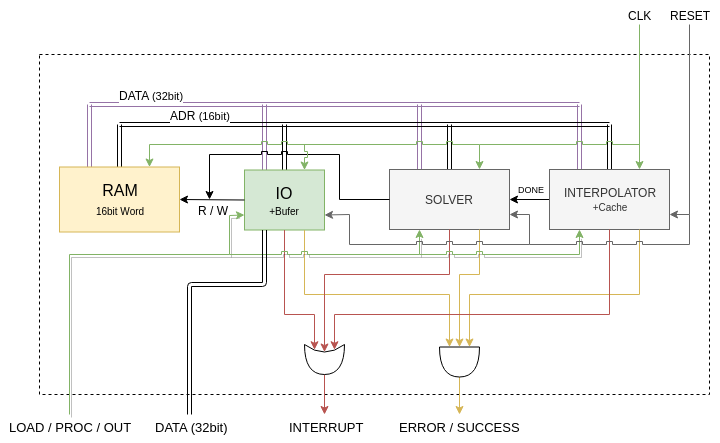
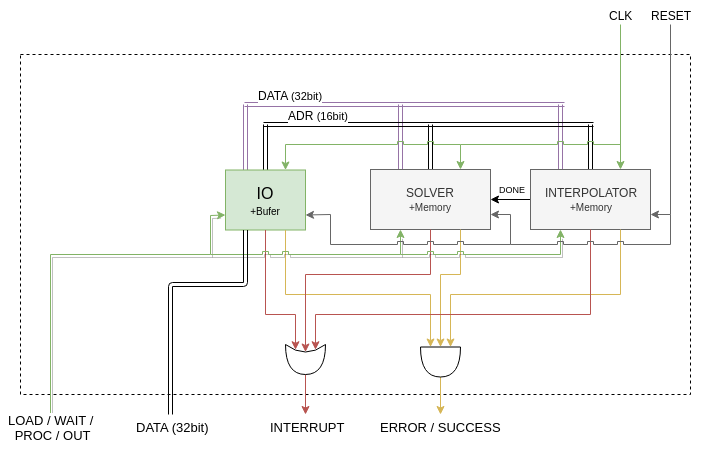
one more state, and better memory mapping, fixed encoding

diff --git a/sfud.md b/sfud.md
@@ -17,48 +17,47 @@ pagestyle: headings
 The hardware has the following interfaces that triggers some actions summarized below and detailed in the rest of the document.
 
 * CLK: IN
-* RESET: IN
+* RESET: ASYNC IN
     - clears all internal states of all modules:
         * IO internal buffer
-        * ERROR/SUCCESS of all modules resets to SUCCESS(1)
-        * INTERRUP resets to zero
-        * INTERPOLATOR invalidates all its cache, which means it needs to refill it from IO 
-        * SOVLER invalidates all its cache and registers, which means it needs to access the ram again 
-        * CPY from solver to interp, and ACK from interp to solver are both zeroed to stop any copy operations
-    - RAM is NOT cleared
-    - ASYNC
-    - CPU is expected next clock to turn the `LOAD / PROC / OUT` into `LOAD` state and we will start loding input again.
-* LOAD / PROC / OUT (2bit): IN
+        * ERROR/SUCCESS of all modules resets to SUCCESS
+        * INTERRUPT resets to zero
+    - Memory at solver and interpolator are NOT cleared
+    - at next clock, CPU is expected to turn the `LOAD / WAIT / PROC / OUT` into `LOAD` state and we will start loding input again.
+* LOAD / WAIT / PROC / OUT (2bit): IN
     - set the current major state of the machine
     - LOAD(0):
-        * only IO, RAM, INTERPOLATOR work
         * IO receives *compressed* data from the CPU
         * IO decompresses data into buffer
-        * buffer is written into RAM and/or INTERPOLATOR CACHE depending on internal counter
-        * ends when IO flushes all buffer and raises INTERRUPT with either SUCCESS or ERROR
-    - PROC(1):
-        * only RAM, SOLVER, INTERPOLATOR work
+        * buffer is flushed into data bus with appropriate adderss
+        * ends when cpu finishes its data loading and switches to `WAIT` state
+    - WAIT(1):
+        * Same state as `LOAD`, but IO doesn't receive anymore data from CPU
+        * ends when IO flushes all its buffer and raises `INTERRUP` with either `ERROR` or `SUCCESS`
+    - PROC(2):
+        * SOLVER sends time step to calculate U at
         * SOLVER and INTERPOLATOR work concurrently to calculate their outputs
-        * INTERPOLATOR waits for SOLVER CPY to copy its output then proceeds to calculating next output
-        * ends when either SOLVER or INTERP raises INTERRUPT with either SUCCESS or ERROR
-    - OUT(2):
-        * only IO, RAM work
-        * IO just copies final outputs to cpu from RAM
-        * ends when IO raises INTERRUPT with either SUCCESS or ERROR 
+        * INTERPOLATOR sends `DONE` signal to SOLVER when it finishes the interpolated U
+        * SOLVER can request to copy the interpolated U 
+        * INTERPOLATOR waits for SOLVER to send next time step
+        * ends when either SOLVER or INTERP raises INTERRUPT with either `SUCCESS` or `ERROR`
+    - OUT(3):
+        * IO just copies final outputs to cpu from SOLVER memory
+        * ends when IO raises INTERRUPT with either `SUCCESS` or `ERROR` 
 * DATA (32bit): INOUT
     - Data bus between cpu and io
 * INTERRUPT: OUT
     - raised from 0 to 1 when some internal module (IO / SOLVER / INTERPOLATOR) finishes its task
-    - if task finished with success the `ERROR / SUCCESS` is set to SUCCESS(1), otherwise it's ERROR(0)
-* ERROR / SUCCESS: OUT
-    - CPU should operate on this value only when `INTERRUPT` is 1
+    - if task finished with success the `ERROR / SUCCESS` is set to `SUCCESS`, otherwise it's `ERROR`
+* ERROR(0) / SUCCESS(1): OUT
+    - CPU should operate on this value ONLY when `INTERRUPT` is 1
     - errros that could happen include: divide by zero, H > 1, incomplete input
 
 # Simulation Workflow
 
 ## Input Preparing
 
-This stage is the responsibility of a script that gets called before the simulation:
+This stage is the responsibility of a script that runs before the simulation:
 
 * INPUT: json file that follows the format stated in main document
 * create bit stream of the read data that follows the `Input Data Structure` specifications
@@ -117,30 +116,43 @@ You can turn the output into human-readable json using output-formatting script
 # Sepecifications
 
 ## Memory Mapping
-Not all modules listen on all addresses. 
+The Following addresses are only meant for internal communicating between modules, and they don't need to resemble actual addresses stored at some memory. 
 
-If address bus is loaded with an address `A` that some module `M` is not assigned to, module `M` must ignore the data and address bus.
+The address loaded at the bus resembles what kind of data is on data bus or what kind of data this module should output.
+
+If address bus is loaded with an address `Adr` that some module `M` is not assigned to, module `M` must ignore the data and address bus so the rest can communicate.
+
+This way communicating is simplified.
+
+`A` column for module `M` is the action of the address taken at module `M` when it sees that address.
+It's either:
+* `W`: *Write to* module `M`. Module `M` is expected to *read* the data bus and store data internally, so the other module *wrote* to module `M`.
+* `R`: *Read from* module `M`. Module `M` is expected to *write* some data to the data bus as response to this address, so the other module *reads* from it.
 
 ### Solver Memory Mapping
-| Address | Type            | Size (words) | Name   | Description                          |
-|---------|-----------------|--------------|--------|--------------------------------------|
-| 0x0000  | `struct Header` | 1            | Header | Includes Dimensions and modes        |
-| 0xXXXX  | `f64`           | 4            | H      | Timestep (variable step mode)        |
-| 0xXXXX  | `f64`           | 4            | Error  | Error Tolerance (variable step mode) |
-| 0xXXXX  | `f64[50][50]`   | 10000        | A      | Matrix A                             |
-| 0xXXXX  | `f64[50][50]`   | 10000        | B      | Matrix B                             |
-| 0xXXXX  | `f64[50]`       | 200          | X      | Initial value of X                   |
-| 0xXXXX  | `f64[50][64]`   | 12800        | Xout   | Final Output X                       |
+Solver module listens at the following addresses:
+| Address | A | Type            | #Words | Name   | Description                          |
+|---------|---|-----------------|--------|--------|--------------------------------------|
+| 0x0000  | W | `struct Header` | 1      | Header | Includes Dimensions and modes        |
+| 0xXXXX  | W | `f64`           | 4      | H      | Timestep (variable step mode)        |
+| 0xXXXX  | W | `f64`           | 4      | Error  | Error Tolerance (variable step mode) |
+| 0xXXXX  | W | `f64[50][50]`   | 10000  | A      | Matrix A                             |
+| 0xXXXX  | W | `f64[50][50]`   | 10000  | B      | Matrix B                             |
+| 0xXXXX  | W | `f64[50]`       | 200    | X      | Initial value of X                   |
+| 0xXXXX  | R | `f64[50][64]`   | 12800  | Xout   | Final Output X                       |
 
 ### Interpolator Memory Mapping
-| Address | Type            | Size (words) | Name   | Description                              |
-|---------|-----------------|--------------|--------|------------------------------------------|
-| 0x0000  | `struct Header` | 1            | Header | Includes Dimensions and modes            |
-| 0xXXXX  | `f64[64]`       | 256          | T      | Time points where solutions are required |
-| 0xXXXX  | `f64[50]`       | 200          | U0     | Initial U vector                         |
-| 0xXXXX  | `f64[50][64]`   | 12800        | Us     | U vector at required time steps          |
-| 0xXXXX  | `f64[50]`       | 200          | Uint   | Interpolated U Vector                    |
+Interpolator module listens at the following addresses:
+| Address | A | Type            | #Words | Name   | Description                              |
+|---------|---|-----------------|--------|--------|------------------------------------------|
+| 0x0000  | W | `struct Header` | 1      | Header | Includes Dimensions and modes            |
+| 0xXXXX  | W | `f64[64]`       | 256    | T      | Time points where solutions are required |
+| 0xXXXX  | W | `f64[50]`       | 200    | U0     | Initial U vector                         |
+| 0xXXXX  | W | `f64[50][64]`   | 12800  | Us     | U vector at required time steps          |
+| 0xXXXX  | R | `f64[50]`       | 200    | Uint   | Interpolated U Vector                    |
+| 0xXXXX  | W | `f32`           | 2      | K      | Time to calculate U at                   |
 
+TODO: size of K and its name
 TODO: figure out the addresses
 
 ## Modules
@@ -243,24 +255,27 @@ TODO: ports
 
 ## Compression
 
-Follow bit-level Run-length encoding to compress ram content before sending them, by taking each (one to seven) [1:7] repeating bits and compressing them into four bits, using `RLE` (Run length encoding) algorithm.
+Follow bit-level Run-length encoding to compress ram content before sending them, by taking each (one to eight) [1:8] repeating bits and compressing them into four bits, using `RLE` (Run length encoding) algorithm.
 
 ### Input 
 Bit stream of `X` bits
 
 ### Output 
-`Y` compressed 4bit packets, where `X >= Y >= ceil(X/7)`
+`Y` compressed 4bit packets, where `X >= Y >= ceil(X/8)`
 Each packet must follow this format:
-| Bit Index | Description                        | Size   |
-|-----------|------------------------------------|--------|
-| 3:1       | Number of bits to generate `[0:7]` | 3 bits |
-| 0         | Bit to generate                    | 1 bit  |
+| Bit Index | Description                    | Size   |
+|-----------|--------------------------------|--------|
+| 3:1       | Number of bits to generate - 1 | 3 bits |
+| 0         | Bit to generate                | 1 bit  |
+
+> NOTE: the 3 bits must be incremented before decode
+
 TOOO: encoding figure
 
 ### Example
 | Original | Compression |
 |----------|-------------|
-| 1111111  | 1111        |
+| 1111111! | 1111        |
 | 0000     | 0110        |
 
 ### Pseudo-code
@@ -271,7 +286,7 @@ for b in bit_stream:
     if c == b and count < 7:
         count++
     else:
-        emit_packet(count, c)
+        emit_packet(count-1, c)
         count = 1
         c = b
 ```
@@ -283,6 +298,9 @@ Because the occurence of more that 7 ones or zeros simultaneously is very rare.
 This compression algorithm may not compress the data, rather than that it may increase the number of bits.
 
 ## Decompression
+
+TODO: mention algorithm
+TODO: note the increment of numbers 
 
 Decompression, like a dummy operator, takes four bits.
 extract the count/existence of the fourth bit from the first three.
